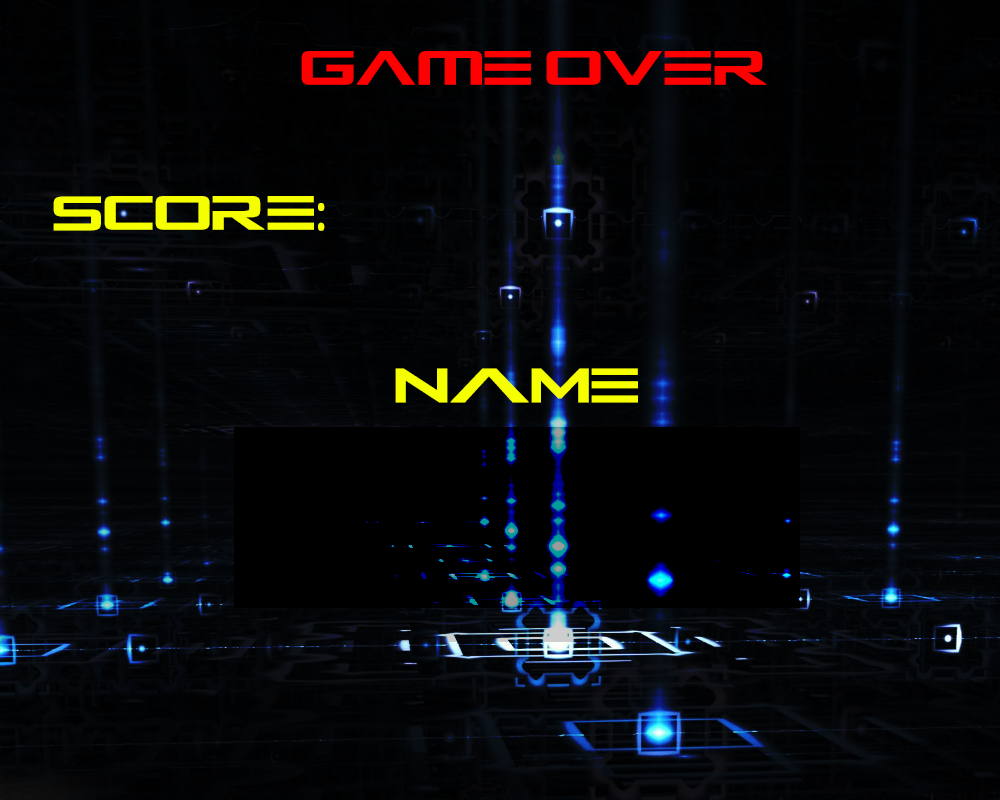
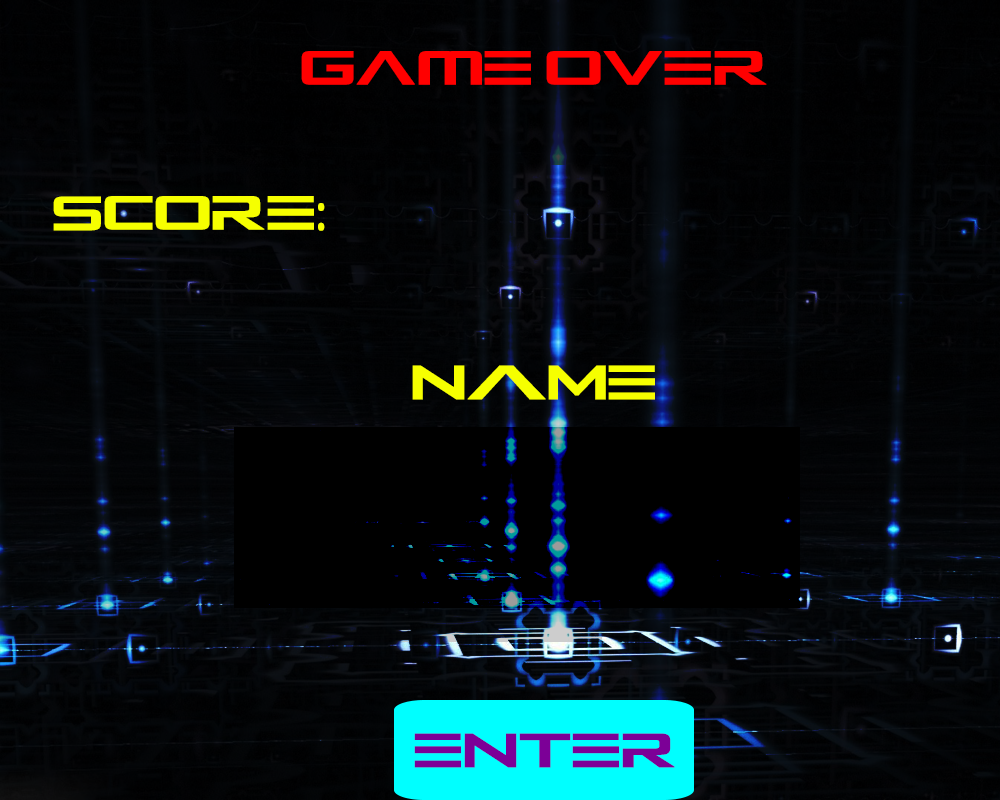
changes

Changed region(s): [[0.372, 0.875, 0.713, 1.0], [0.372, 0.4375, 0.651, 0.5312]]

diff --git a/src/GUI/MainMenu.java b/src/GUI/MainMenu.java
@@ -472,7 +472,7 @@ public class MainMenu extends JPanel implements MouseListener, KeyListener {
 				repaint();
 			}
 		} else if (State == STATE.GAMEOVER) {
-			if (mx > 0 && mx < 10 && my > 0 && my < 10) {
+			if (mx > 394 && mx < 694 && my > 700 && my < 800) {
 				String name = nameField.getText();
 				if (name == "") {
 					hs.addScore("AAA", field.getScore());

diff --git a/src/main/Field.java b/src/main/Field.java
@@ -97,6 +97,7 @@ public class Field
 			{
 			}
 		}
+		
 		System.out.println("game over");
 	}
 
